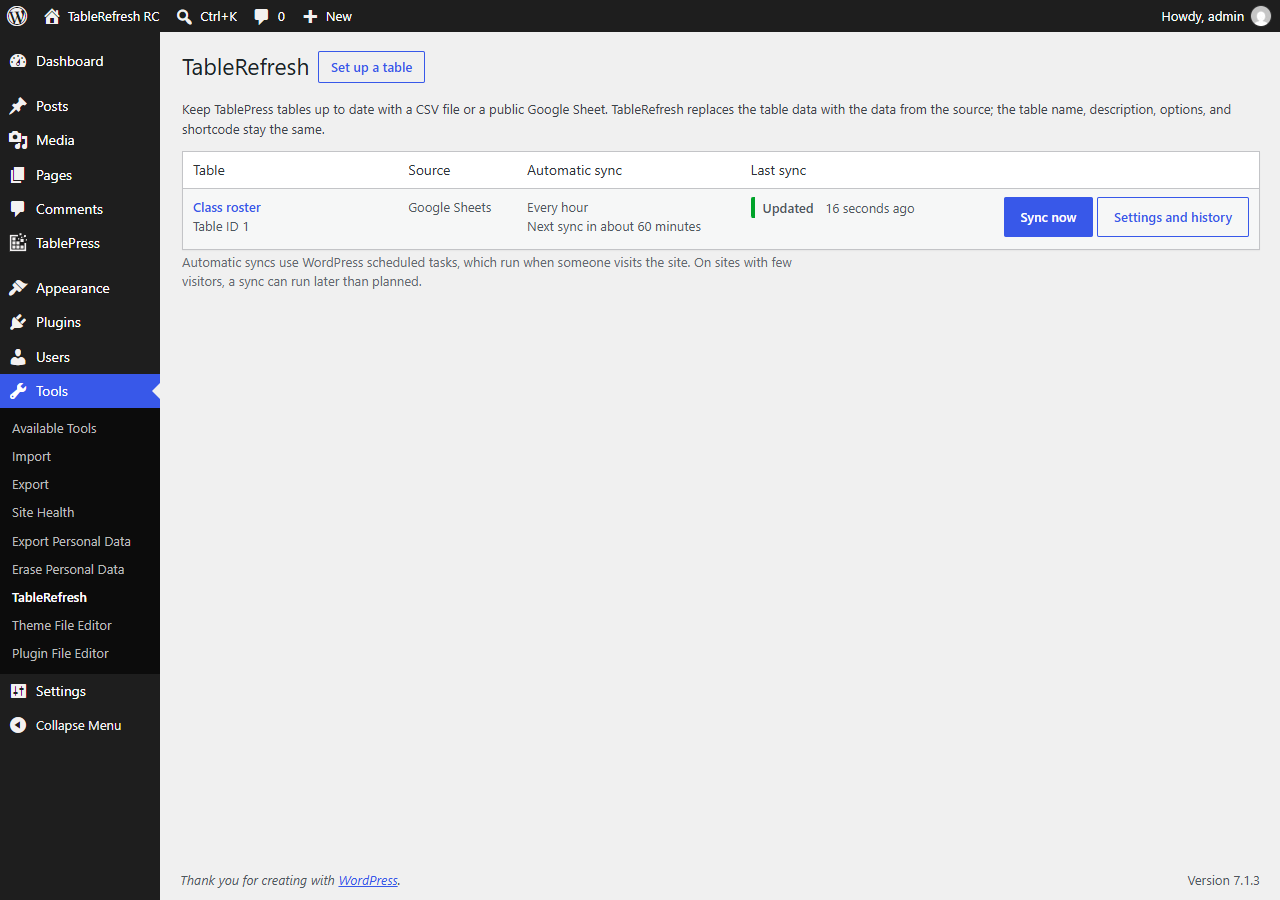
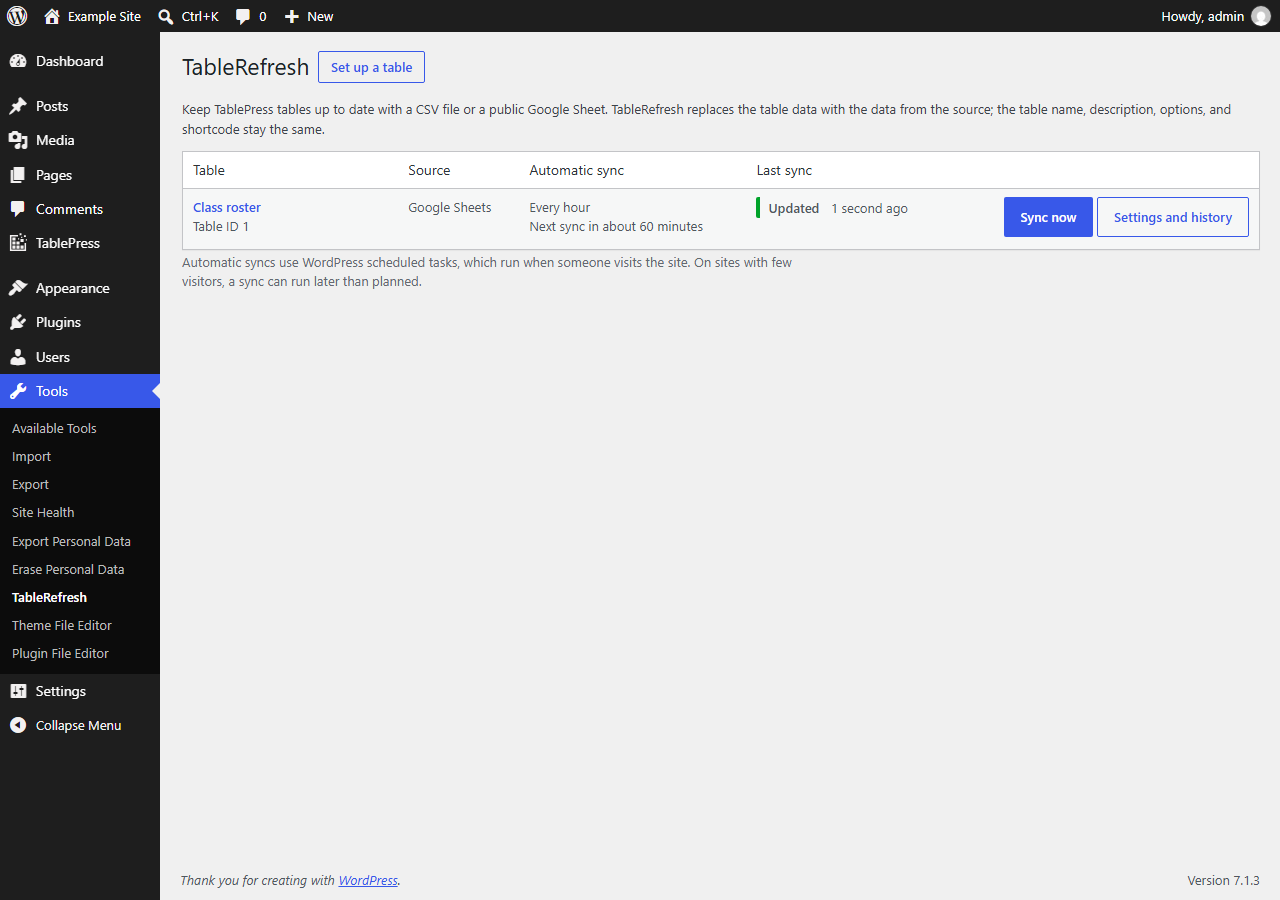
WordPress.org screenshots: successful syncs, new admin headings
The previous screenshots came from the end-to-end check, so their
history showed failures and repeated "not updated" attempts. The new
set comes from dev/release-checks/browser/store-shots.js on a fresh
site with the plugin of 0626e32: setup, two automatic syncs that
update the table, one "Sync now" without changes, and, for screenshot
4 only, one edit in TablePress that the next automatic sync reports.
Site title "Example Site" instead of "TableRefresh RC". Captions in
readme.txt are unchanged and still match.

diff --git a/dev/release-checks/browser/store-shots.js b/dev/release-checks/browser/store-shots.js
@@ -1,0 +1,124 @@
+// WordPress.org screenshots (screenshot-1 … 5) on a fresh site with TableRefresh and TablePress
+// active and no tables yet, through the browser like an administrator.
+//
+//   node store-shots.js <output dir>
+//
+// TR_BASE: site address (default http://localhost:8090, see dev/rc-env.sh); TR_WP: WP-CLI command
+// for that site, run from the repository root (default "sh dev/rc-env.sh wp"). WP-CLI only runs the
+// scheduled sync event (as WP-Cron would) and reads IDs.
+const puppeteer = require( 'puppeteer-core' );
+const { execFileSync } = require( 'child_process' );
+const path = require( 'path' );
+const REPO = path.resolve( __dirname, '../../..' ).replace( /\\/g, '/' );
+const fs = require( 'fs' );
+
+const BASE = process.env.TR_BASE || 'http://localhost:8090';
+const WP = process.env.TR_WP || 'sh dev/rc-env.sh wp';
+const OUT = process.argv[ 2 ];
+const SHEET = 'https://docs.google.com/spreadsheets/d/1BxiMVs0XRA5nFMdKvBdBZjgmUUqptlbs74OgvE2upms/edit?usp=sharing';
+const SHEET_CHANGED = 'https://docs.google.com/spreadsheets/d/1BxiMVs0XRA5nFMdKvBdBZjgmUUqptlbs74OgvE2upms/gviz/tq?tqx=out:csv&tq=' + encodeURIComponent( 'select A, B, C limit 5' );
+if ( ! OUT ) {
+	console.error( 'usage: node store-shots.js <output dir>' );
+	process.exit( 1 );
+}
+fs.mkdirSync( OUT, { recursive: true } );
+
+const wp = ( code ) => execFileSync( 'C:/Program Files/Git/bin/bash.exe', [ '-c', 'cd "' + REPO + '" && ' + WP + ' eval "$0" 2>/dev/null | tail -1', code ], { encoding: 'utf8' } ).trim();
+const sleep = ( ms ) => new Promise( ( r ) => setTimeout( r, ms ) );
+
+( async () => {
+	const browser = await puppeteer.launch( { executablePath: 'C:\\Program Files\\Google\\Chrome\\Application\\chrome.exe', headless: 'new', userDataDir: path.join( __dirname, 'profile-shots' ) } );
+	const page = await browser.newPage();
+	const problems = [];
+	page.on( 'pageerror', ( e ) => problems.push( 'pageerror: ' + e.message ) );
+	page.on( 'console', ( m ) => { if ( 'error' === m.type() ) problems.push( 'console: ' + m.text() + ' @ ' + page.url() ); } );
+	await page.setViewport( { width: 1280, height: 900 } );
+	const go = async ( url ) => page.goto( BASE + url, { waitUntil: 'networkidle2' } );
+	const shot = async ( n ) => {
+		await page.screenshot( { path: path.join( OUT, `screenshot-${ n }.png` ), fullPage: true } );
+		console.log( 'saved screenshot-' + n );
+	};
+	const text = async () => page.$eval( '#wpbody-content', ( e ) => e.innerText );
+	const submitAndWait = async ( selector ) => Promise.all( [ page.waitForNavigation( { waitUntil: 'networkidle2', timeout: 90000 } ), page.click( selector ) ] );
+	const expect = async ( needle, step ) => {
+		if ( ! ( await text() ).includes( needle ) ) {
+			throw new Error( `${ step }: "${ needle }" not found` );
+		}
+	};
+	const trPage = '/wp-admin/tools.php?page=tablerefresh';
+
+	await go( '/wp-login.php' );
+	if ( await page.$( '#user_login' ) ) {
+		await page.type( '#user_login', 'admin' );
+		await page.type( '#user_pass', 'admin' );
+		await submitAndWait( '#wp-submit' );
+	}
+
+	// A TablePress table to fill. Created through TablePress's model, not its "Add" screen: that screen
+	// opens the new table in the editor, and an open editor rightly holds automatic syncs for 15 minutes.
+	const tableId = wp( "wp_set_current_user( 1 ); $t = TablePress::$model_table->get_table_template(); $t['name'] = 'Class roster'; $t['data'] = array( array( '' ) ); $t['visibility'] = array( 'rows' => array( 1 ), 'columns' => array( 1 ) ); echo TablePress::$model_table->add( $t );" );
+	const postId = wp( `echo TableRefresh\\TablePress_Adapter::get_post_id( '${ tableId }' );` );
+
+	// 2: setting up the table.
+	await go( trPage + '&action=add' );
+	await page.select( '#tablerefresh-table', tableId );
+	await page.type( '#tablerefresh-url', SHEET );
+	await page.click( 'input[name="frequency"][value="hourly"]' );
+	await page.click( 'input[name="confirm_replace"]' );
+	await page.evaluate( () => document.activeElement.blur() );
+	await shot( 2 );
+	await submitAndWait( '#submit' );
+	await expect( 'The table was updated: 31 rows, 6 columns', 'setup' );
+
+	// Automatic syncs: the sheet answers with other data, then with the full sheet again.
+	const setSource = async ( url ) => {
+		await go( trPage + '&action=edit&table=' + postId );
+		await page.$eval( '#tablerefresh-url', ( e ) => { e.value = ''; } );
+		await page.type( '#tablerefresh-url', url );
+		await submitAndWait( '#submit' );
+		await expect( 'Settings saved.', 'save source' );
+	};
+	const scheduledSync = () => wp( `do_action( TableRefresh\\Scheduler::HOOK, ${ postId } ); echo TableRefresh\\Sync_Log::last( ${ postId } )['outcome'];` );
+	await setSource( SHEET_CHANGED );
+	if ( 'updated' !== scheduledSync() ) {
+		throw new Error( 'first scheduled sync did not update' );
+	}
+	await setSource( SHEET );
+	if ( 'updated' !== scheduledSync() ) {
+		throw new Error( 'second scheduled sync did not update' );
+	}
+	// 1: the list after the automatic sync; 5: the same on a phone.
+	await go( trPage );
+	await shot( 1 );
+	await page.setViewport( { width: 390, height: 844, isMobile: true } );
+	await go( trPage );
+	await shot( 5 );
+	await page.setViewport( { width: 1280, height: 900 } );
+
+	// 3: settings and history, after a "Sync now" without changes.
+	await go( trPage + '&action=edit&table=' + postId );
+	await submitAndWait( '.tablerefresh-sync-form button' );
+	await expect( 'The source has not changed', 'Sync now' );
+	await go( trPage + '&action=edit&table=' + postId );
+	await shot( 3 );
+
+	// 4: someone edits the table in TablePress; the next automatic sync stops and asks.
+	await go( `/wp-admin/admin.php?page=tablepress&action=edit&table_id=${ tableId }` );
+	await sleep( 2000 );
+	await page.click( 'td[data-x="5"][data-y="3"]', { clickCount: 2 } );
+	const editorInput = await page.waitForSelector( 'td.editor textarea' );
+	await editorInput.evaluate( ( e ) => { e.value = ''; } );
+	await editorInput.type( 'Chess Club' );
+	await page.click( 'td[data-x="1"][data-y="2"]' );
+	await page.evaluate( () => [ ...document.querySelectorAll( 'button' ) ].find( ( b ) => 'Save Changes' === b.textContent.trim() ).click() );
+	await sleep( 3000 );
+	if ( 'conflict' !== scheduledSync() ) {
+		throw new Error( 'the edit was not detected' );
+	}
+	await go( trPage + '&action=edit&table=' + postId );
+	await expect( 'This table was changed in TablePress', 'conflict' );
+	await shot( 4 );
+
+	console.log( problems.length ? 'problems: ' + problems.join( ' | ' ) : 'no JavaScript errors' );
+	await browser.close();
+} )().catch( ( e ) => { console.error( 'ABORTED:', e.message ); process.exit( 1 ); } );

diff --git a/release/README.md b/release/README.md
@@ -4,7 +4,8 @@
   `icon.svg`, `icon-128x128.png`, `icon-256x256.png`, `banner-772x250.png`, `banner-1544x500.png`,
   and `screenshot-1.png` … `screenshot-5.png` (captions in `tablerefresh/readme.txt`, section Screenshots).
   Original artwork; no TablePress or Google logos. Screenshots: clean WordPress 7.1.3 + TablePress 3.4.1,
-  Google's public "Class Data" sample sheet (fictional data).
+  Google's public "Class Data" sample sheet (fictional data). Made with
+  `dev/release-checks/browser/store-shots.js` on a fresh site with the plugin of commit 0626e32.
 - Build the plugin ZIP with `sh dev/build-zip.sh <commit> [suffix]` (output in `dist/`, not committed).
 
 Submission to WordPress.org needs the explicit approval of the project owner, and the `Contributors`

diff --git a/dev/release-checks/README.md b/dev/release-checks/README.md
@@ -12,6 +12,8 @@ Scripts used to verify a release candidate. They are not part of the plugin ZIP.
     public Google sample sheet.
   - `a11y.js`, `a11y2.js`: axe, keyboard order and visible focus, RTL, on the same site.
   - `shots.js`: screenshots of the dev site (http://localhost:8089).
+  - `store-shots.js <dir>`: the WordPress.org screenshots, on a fresh site with TablePress and the
+    plugin active and no tables (default http://localhost:8090; `TR_BASE` and `TR_WP` select another).
   - `assets.js`: renders `release/wordpress-org-assets/` icons and banners.
   - Chrome and Git Bash are expected at `C:/Program Files/Google/Chrome/...` and
     `C:/Program Files/Git/bin/bash.exe`; the repository path is derived from the script location.
